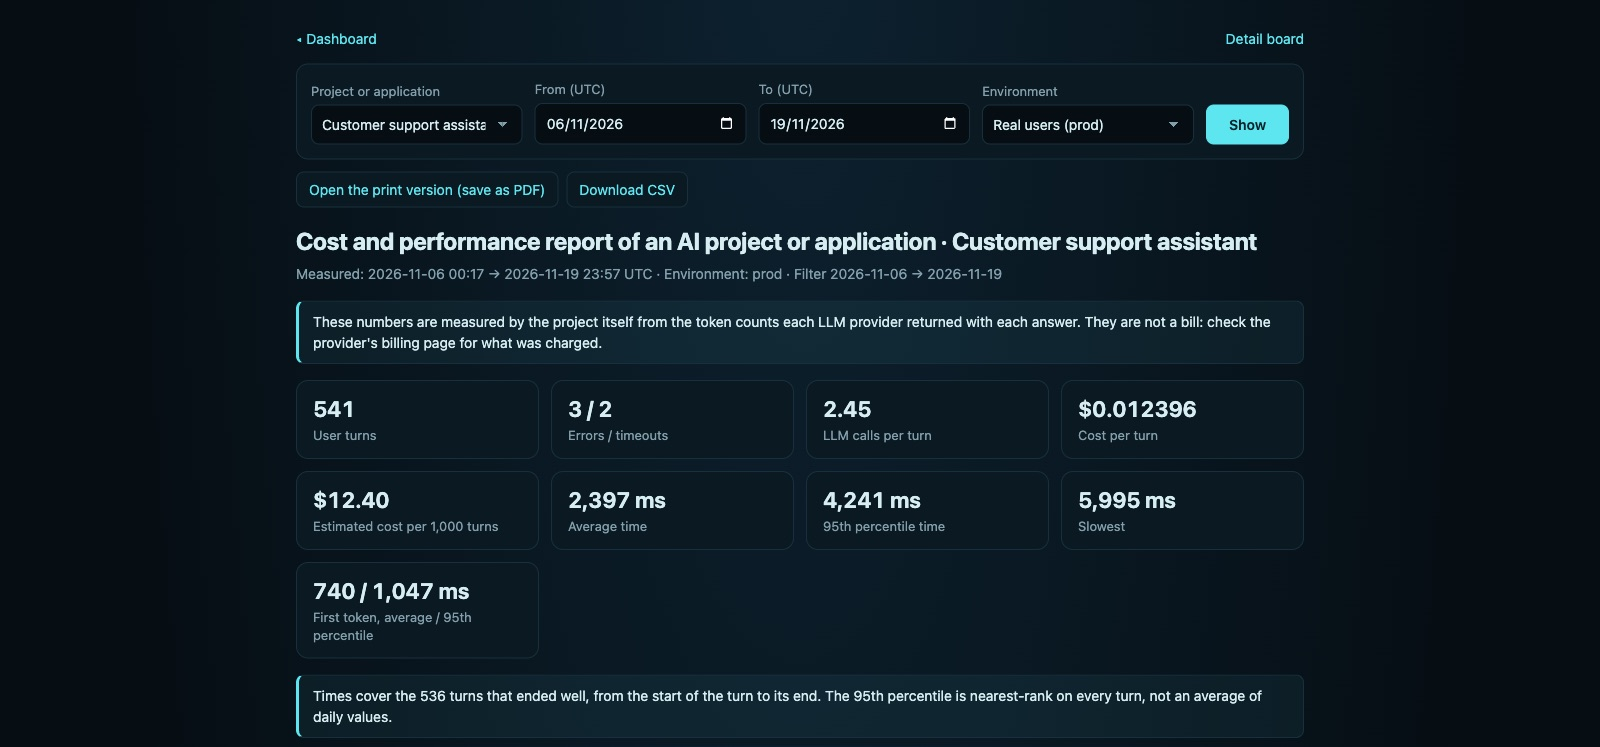
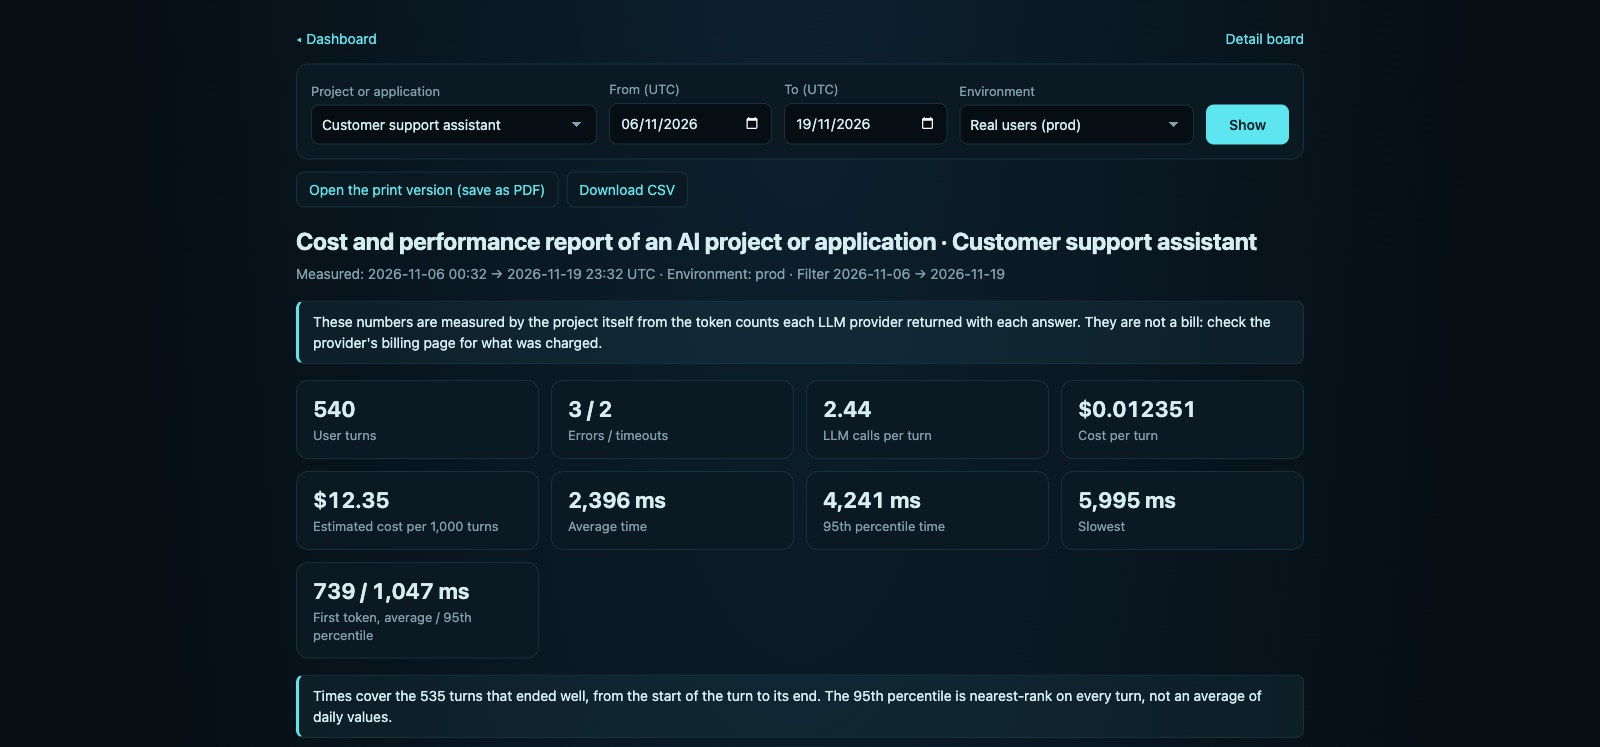
0.48.1: the By model table and the pickers of an AI project's report fit, and the Admin page writes days as DD/MM/YYYY in Vietnamese

diff --git a/server/static/admin.js b/server/static/admin.js
@@ -33,6 +33,12 @@
     return b
   }
   const dateTime = ms => new Date(ms).toLocaleString(I18n.locale, { hour12: false })
+  // a time the server kept as text (2026-11-19T08:30:00): cut to n characters, and in Vietnamese the day reads 19/11/2026
+  // một thời điểm máy chủ giữ dạng chữ (2026-11-19T08:30:00): cắt còn n ký tự, và trong tiếng Việt ngày đọc là 19/11/2026
+  const stamp = (iso, n) => {
+    const text = String(iso || '').replace('T', ' ').slice(0, n)
+    return I18n.locale === 'vi-VN' ? text.replace(/^(\d{4})-(\d{2})-(\d{2})/, '$3/$2/$1') : text
+  }
   // Vietnamese mode shows dong through the rate as before; English shows US dollars with no conversion.
   // Tiếng Việt hiện đồng qua tỉ giá như trước; tiếng Anh hiện đô la Mỹ, không quy đổi.
   const compactMoney = d => (d >= 1e6 ? (d / 1e6).toFixed(2).replace('.', ',') + 'tr' : d >= 1e3 ? Math.round(d / 1e3) + 'k' : Math.round(d)) + ' đ' // i18n-allow
@@ -681,7 +687,7 @@
     board.append(head)
     for (const x of snapshot.mcpCalls) {
       const h = o('tr', x.ok ? '' : 'qt-bad-row')
-      h.append(o('td', '', String(x.at || '').replace('T', ' ').slice(0, 19)), o('td', '', x.tv || '—'), o('td', '', x.client || '—'), o('td', '', x.clientIp || '—'), o('td', '', !x.ok ? tx('Refused') : x.action === 'telegram-ask' ? tx('Answered /{command}', { command: x.tool }) : tx('Read the board')))
+      h.append(o('td', '', stamp(x.at, 19)), o('td', '', x.tv || '—'), o('td', '', x.client || '—'), o('td', '', x.clientIp || '—'), o('td', '', !x.ok ? tx('Refused') : x.action === 'telegram-ask' ? tx('Answered /{command}', { command: x.tool }) : tx('Read the board')))
       board.append(h)
     }
     p.append(addLabel(board))
@@ -735,7 +741,7 @@
       const h = o('tr', x.outcome === 'refused' || flagged ? 'qt-bad-row' : '')
       const result = (OUTCOMES[x.outcome] || x.outcome || '—') + ((x.found || []).length ? ` (${x.found.join(', ')})` : '')
       h.append(
-        o('td', '', String(x.doneAt || x.at || '').replace('T', ' ').slice(0, 16)),
+        o('td', '', stamp(x.doneAt || x.at, 16)),
         o('td', 'qt-keep', x.name || x.account || '—'),
         o('td', '', `${WORKERS[x.worker] || x.worker || '—'}${x.tool === 'generate_image' ? ' · ' + tx('image') : ''}`),
         o('td', '', tx('{prompt} → {answer} characters', { prompt: x.promptChars || 0, answer: x.answerChars || 0 })),
@@ -767,10 +773,10 @@
     const chain = snapshot.auditChain
     if (chain && chain.rows) {
       p.append(chain.ok
-        ? o('small', 'qt-muted', tx('Log check: no line changed or taken out since {since} ({n} lines). Last fingerprint {head}: note it down to compare later.', { since: String(chain.since).replace('T', ' ').slice(0, 16), n: chain.rows, head: chain.head }))
+        ? o('small', 'qt-muted', tx('Log check: no line changed or taken out since {since} ({n} lines). Last fingerprint {head}: note it down to compare later.', { since: stamp(chain.since, 16), n: chain.rows, head: chain.head }))
         : o('div', 'qt-hint', chain.brokenAt === 'end'
           ? tx('Log check: the newest lines were taken out of the database by hand. Find out who can reach the server.')
-          : tx('Log check: a line near {at} was changed or taken out of the database by hand. Find out who can reach the server.', { at: String(chain.brokenAt).replace('T', ' ').slice(0, 16) })))
+          : tx('Log check: a line near {at} was changed or taken out of the database by hand. Find out who can reach the server.', { at: stamp(chain.brokenAt, 16) })))
     }
     const board = o('table', 'qt-table small')
     const head = o('tr')
@@ -779,7 +785,7 @@
     for (const x of snapshot.auditLog) {
       const { at, actor, role, clientIp, action, path, device, prev, hash, ...rest } = x
       const h = o('tr', /tu-choi|sai|^loi$/.test(action || '') ? 'qt-bad-row' : '')
-      h.append(o('td', '', String(at || '').replace('T', ' ').slice(0, 19)), o('td', '', actor || '—'), o('td', '', ACTION_NAMES[action] || action || '—'), o('td', '', clientIp || '—'), o('td', '', Object.entries(rest).map(([k, v]) => `${k}: ${v && typeof v === 'object' ? JSON.stringify(v) : v}`).join(' · ')))
+      h.append(o('td', '', stamp(at, 19)), o('td', '', actor || '—'), o('td', '', ACTION_NAMES[action] || action || '—'), o('td', '', clientIp || '—'), o('td', '', Object.entries(rest).map(([k, v]) => `${k}: ${v && typeof v === 'object' ? JSON.stringify(v) : v}`).join(' · ')))
       board.append(h)
     }
     if (!snapshot.auditLog.length) p.append(o('small', '', tx('Nothing this month.')))

diff --git a/server/board/costreport.py b/server/board/costreport.py
@@ -359,6 +359,7 @@ h2{font-size:16px;margin:32px 0 10px;color:var(--fg)}h2::before{content:"";displ
 .wrap{overflow-x:auto;background:var(--card);border:1px solid var(--line);border-radius:12px}
 table{border-collapse:collapse;width:100%;font-size:14px;font-variant-numeric:tabular-nums}th,td{padding:9px 14px;text-align:right;white-space:nowrap;border-bottom:1px solid var(--line)}
 th:first-child,td:first-child{text-align:left}th{background:var(--soft);color:var(--muted);font-size:13px;font-weight:600}tr:last-child td{border-bottom:0}
+.models th{white-space:normal;vertical-align:bottom}.models th,.models td{padding:9px 7px}.models th:first-child,.models td:first-child{padding-left:14px}.models th:last-child,.models td:last-child{padding-right:14px}.models td:nth-child(2),.models th:nth-child(2){text-align:left}.models td.t{white-space:normal;min-width:96px}
 tr:hover td{background:var(--info)}ul{padding-left:20px}li{overflow-wrap:anywhere;margin:2px 0}
 footer{margin-top:32px;padding-top:14px;border-top:1px solid var(--line);color:var(--muted);font-size:13px}
 a{color:var(--accent);text-decoration:none}a:hover{text-decoration:underline}a:focus-visible{outline:2px solid var(--accent);outline-offset:2px;border-radius:3px}
@@ -394,6 +395,7 @@ table{border-collapse:collapse;width:100%%;font-size:var(--table);line-height:1.
 th,td{padding:6px 9px;text-align:right;vertical-align:top;border-bottom:1px solid var(--line)}th{background:var(--soft);color:var(--muted);font-size:var(--th);font-weight:600}
 td{white-space:nowrap}.models td:first-child{white-space:normal;overflow-wrap:break-word;min-width:37mm}td.t{white-space:normal;min-width:24mm}
 th:first-child,td:first-child,.models td:nth-child(2),.models th:nth-child(2){text-align:left}tbody tr:last-child td{border-bottom:0}tr{break-inside:avoid}
+@media screen{.models{font-size:12.5px}.models th,.models td{padding:6px 5px}.models th:first-child,.models td:first-child{padding-left:9px}.models th:last-child,.models td:last-child{padding-right:9px}}
 ul{padding-left:20px;margin:6px 0;font-size:var(--small)}li{overflow-wrap:anywhere}
 footer{margin-top:14px;padding-top:8px;border-top:1px solid var(--line);color:var(--muted);font-size:var(--tiny);line-height:1.45}a{color:var(--accent)}.end{break-inside:avoid}
 @media screen and (max-width:700px){:root{--body:15px;--h1:22px;--value:18px;--table:11.5px;--th:11px}th,td{padding:5px 3px}th:first-child,td:first-child{padding-left:6px}th:last-child,td:last-child{padding-right:6px}

diff --git a/skills/ai-cost-report/report.py b/skills/ai-cost-report/report.py
@@ -359,6 +359,7 @@ h2{font-size:16px;margin:32px 0 10px;color:var(--fg)}h2::before{content:"";displ
 .wrap{overflow-x:auto;background:var(--card);border:1px solid var(--line);border-radius:12px}
 table{border-collapse:collapse;width:100%;font-size:14px;font-variant-numeric:tabular-nums}th,td{padding:9px 14px;text-align:right;white-space:nowrap;border-bottom:1px solid var(--line)}
 th:first-child,td:first-child{text-align:left}th{background:var(--soft);color:var(--muted);font-size:13px;font-weight:600}tr:last-child td{border-bottom:0}
+.models th{white-space:normal;vertical-align:bottom}.models th,.models td{padding:9px 7px}.models th:first-child,.models td:first-child{padding-left:14px}.models th:last-child,.models td:last-child{padding-right:14px}.models td:nth-child(2),.models th:nth-child(2){text-align:left}.models td.t{white-space:normal;min-width:96px}
 tr:hover td{background:var(--info)}ul{padding-left:20px}li{overflow-wrap:anywhere;margin:2px 0}
 footer{margin-top:32px;padding-top:14px;border-top:1px solid var(--line);color:var(--muted);font-size:13px}
 a{color:var(--accent);text-decoration:none}a:hover{text-decoration:underline}a:focus-visible{outline:2px solid var(--accent);outline-offset:2px;border-radius:3px}
@@ -394,6 +395,7 @@ table{border-collapse:collapse;width:100%%;font-size:var(--table);line-height:1.
 th,td{padding:6px 9px;text-align:right;vertical-align:top;border-bottom:1px solid var(--line)}th{background:var(--soft);color:var(--muted);font-size:var(--th);font-weight:600}
 td{white-space:nowrap}.models td:first-child{white-space:normal;overflow-wrap:break-word;min-width:37mm}td.t{white-space:normal;min-width:24mm}
 th:first-child,td:first-child,.models td:nth-child(2),.models th:nth-child(2){text-align:left}tbody tr:last-child td{border-bottom:0}tr{break-inside:avoid}
+@media screen{.models{font-size:12.5px}.models th,.models td{padding:6px 5px}.models th:first-child,.models td:first-child{padding-left:9px}.models th:last-child,.models td:last-child{padding-right:9px}}
 ul{padding-left:20px;margin:6px 0;font-size:var(--small)}li{overflow-wrap:anywhere}
 footer{margin-top:14px;padding-top:8px;border-top:1px solid var(--line);color:var(--muted);font-size:var(--tiny);line-height:1.45}a{color:var(--accent)}.end{break-inside:avoid}
 @media screen and (max-width:700px){:root{--body:15px;--h1:22px;--value:18px;--table:11.5px;--th:11px}th,td{padding:5px 3px}th:first-child,td:first-child{padding-left:6px}th:last-child,td:last-child{padding-right:6px}

diff --git a/server/board/pages.py b/server/board/pages.py
@@ -1271,6 +1271,9 @@ def page_projects(known: dict, project: str, first: str, last: str, env: str, no
     style = ('<style>.top{display:flex;flex-wrap:wrap;justify-content:space-between;gap:8px;margin-bottom:14px;font-size:14px}'
              '.pick{display:flex;flex-wrap:wrap;gap:10px 12px;align-items:end;margin:0 0 12px;padding:14px;background:var(--card);border:1px solid var(--line);border-radius:12px}'
              '.pick label{display:flex;flex-direction:column;flex:1 1 150px;font-size:13px;color:var(--muted);gap:4px;min-width:0}'
+             # the project's name is the longest thing in the row, so its box gets the most room
+             # tên dự án là thứ dài nhất trong hàng, nên ô của nó được nhiều chỗ nhất
+             '.pick label:first-child{flex:2 1 260px}.pick label:nth-of-type(4){flex:1.5 1 215px}'
              '.pick select,.pick input,.pick button{font:inherit;font-size:14px;padding:8px 10px;border:1px solid var(--line);border-radius:8px;background:var(--bg);color:var(--fg);min-height:40px;width:100%}'
              # the browser's own arrow sits on the edge of the box: draw one with room around it
              # mũi tên sẵn của trình duyệt nằm sát mép ô: tự vẽ một mũi tên có khoảng trống xung quanh

diff --git a/CHANGELOG.md b/CHANGELOG.md
@@ -2,6 +2,16 @@
 
 Changes that matter to people who install or run AI Worker. The format follows [Keep a Changelog](https://keepachangelog.com/en/1.1.0/), and versions follow [Semantic Versioning](https://semver.org/).
 
+## 0.48.1 - 2026-11-20
+
+### Fixed
+- The **By model** table of an AI project's report fits its frame on a computer screen: the Cost and Price checked columns were hidden past the right edge on the board's **AI projects** page and in the print version seen on screen. The printed A4 page was already right.
+- On the **AI projects** page, the boxes that pick the project and the environment show their whole text: a long project name, or "Real users (prod)" in Vietnamese, was cut short.
+
+### Changed
+- In Vietnamese, the Admin page writes days as DD/MM/YYYY in the audit log, the log check line, the reads by AI tools and Telegram chats, and the work handed to AI helpers. English keeps YYYY-MM-DD.
+- README: the pictures of the report, the **AI projects** page and Telegram were taken again, so the numbers in them agree.
+
 ## 0.48.0 - 2026-11-20
 
 ### Changed

diff --git a/docs/COMPONENTS.md b/docs/COMPONENTS.md
@@ -8,7 +8,7 @@ Every part of AI Worker, where it runs, what it needs and which version is pinne
 
 | Part | Runs on | Language | Version |
 |---|---|---|---|
-| Plugin (hooks, `/office`, skills) | Staff computers, inside Claude Code | TypeScript | `version` in `.claude-plugin/plugin.json` (now 0.48.0) |
+| Plugin (hooks, `/office`, skills) | Staff computers, inside Claude Code | TypeScript | `version` in `.claude-plugin/plugin.json` (now 0.48.1) |
 | Dashboard server (webhook) | Linux server | Python, standard library only; data in SQLite | Same as the plugin release |
 | 3D office page | Browser | JavaScript, three.js | Same as the plugin release |
 | Menu bar icon | macOS, Windows, Ubuntu | Python (SwiftBar on Mac, Ubuntu), Swift app (`macos-app/`), PowerShell and C# (Windows) | Built by the server for each download |
